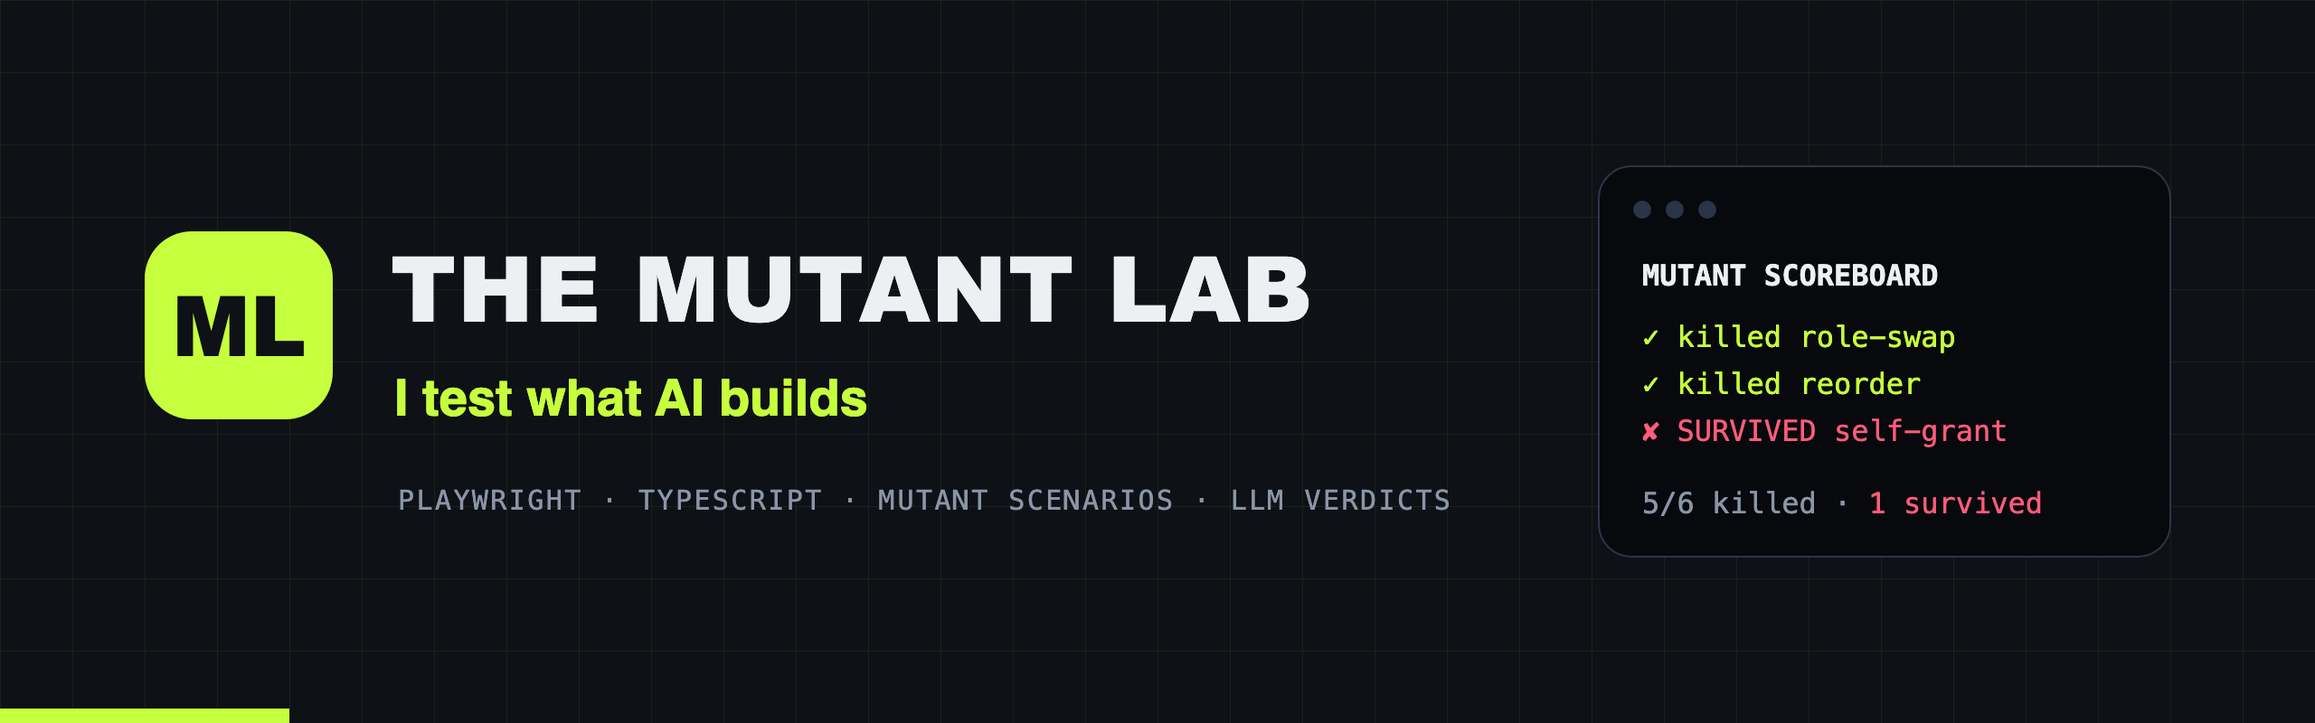
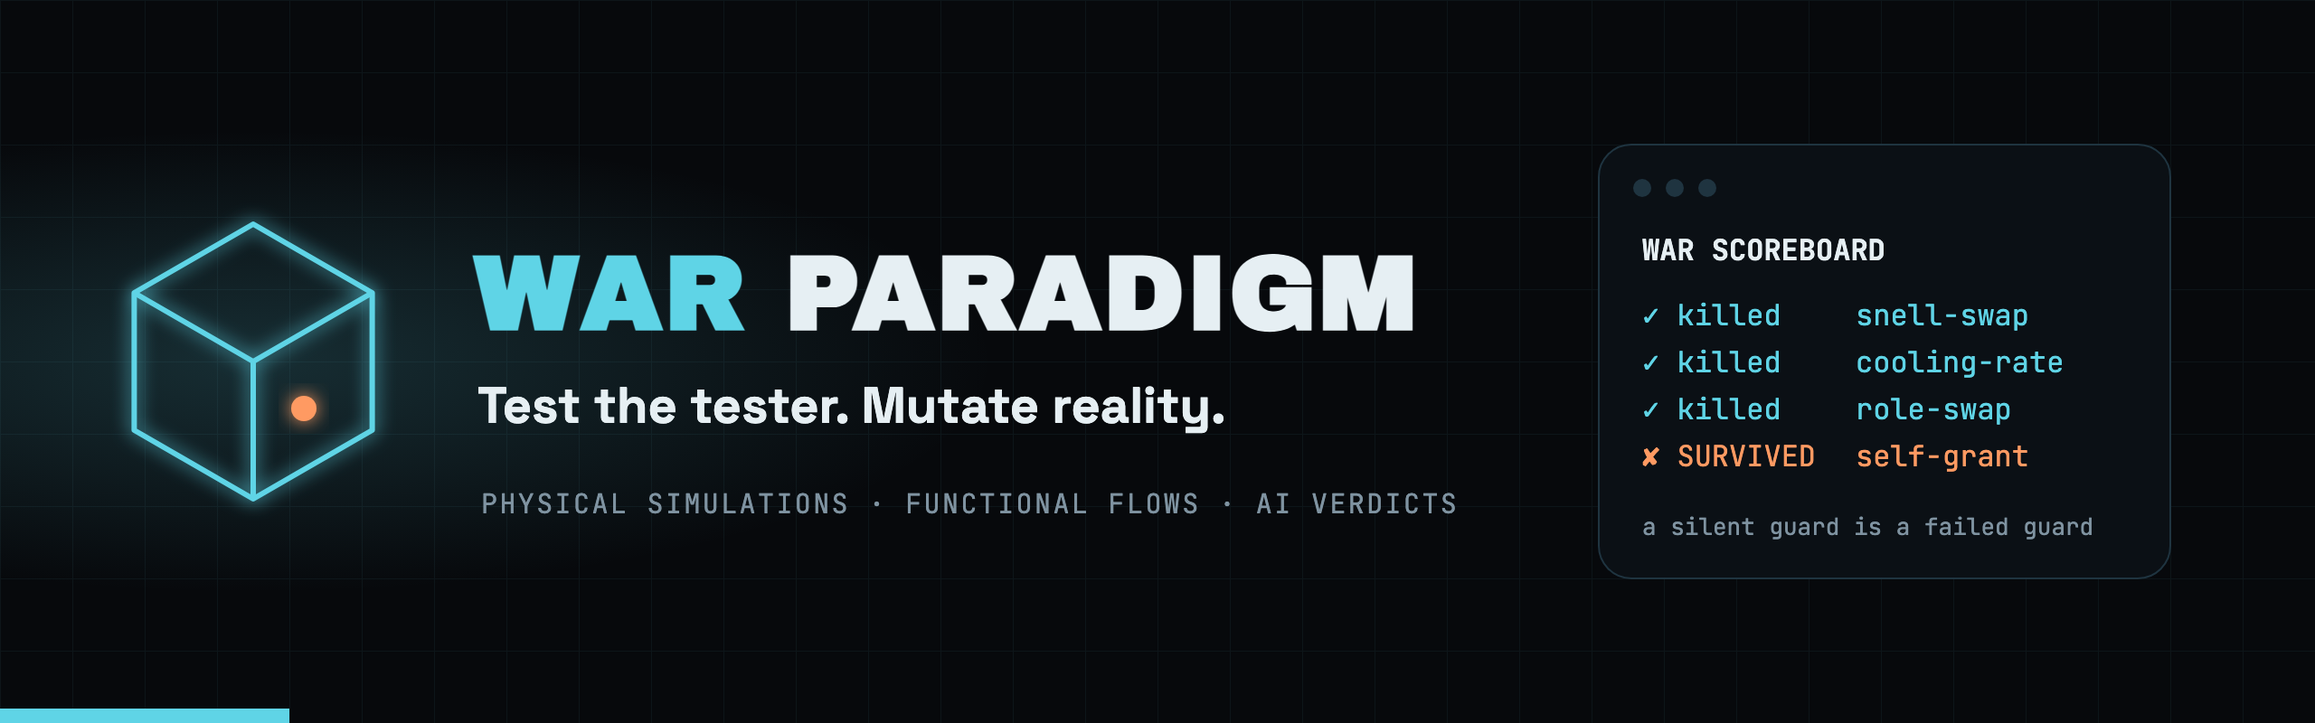
WAR Paradigm: rename The Mutant Lab after the paradigm
Test the tester: break reality on purpose and check whether the guard notices.
README (EN + ES) now frames the lab as two tracks of one paradigm:
physical simulations (criguex/scientific-qa-evidence) and functionality
(experiments 01-03 here), with the four steps generate, mutate, audit, validate.
New banner, package name and per-experiment pointers to the paradigm.

Claude-Session: https://claude.ai/code/session_01XG5yu38mgTTH3NKwecuy75

diff --git a/README.md b/README.md
@@ -1,50 +1,84 @@
 <p align="center">
-  <img src="assets/banner.png" alt="THE MUTANT LAB · I test what AI builds" width="100%">
+  <img src="assets/banner.png" alt="WAR Paradigm · Test the tester. Mutate reality." width="100%">
 </p>
 
 <p align="center">
-  <a href="https://github.com/criguex/mutant-lab/actions/workflows/ci.yml"><img src="https://github.com/criguex/mutant-lab/actions/workflows/ci.yml/badge.svg" alt="CI"></a>
+  <a href="https://github.com/criguex/war-paradigm/actions/workflows/ci.yml"><img src="https://github.com/criguex/war-paradigm/actions/workflows/ci.yml/badge.svg" alt="CI"></a>
   <img src="https://img.shields.io/badge/Playwright-1.63-2EAD33?logo=playwright&logoColor=white" alt="Playwright 1.63">
   <img src="https://img.shields.io/badge/TypeScript-5.9-3178C6?logo=typescript&logoColor=white" alt="TypeScript">
-  <img src="https://img.shields.io/badge/license-MIT-C6FF3D" alt="MIT">
+  <img src="https://img.shields.io/badge/license-MIT-5FD4E6" alt="MIT">
 </p>
 
-# THE MUTANT LAB
+# WAR Paradigm
 
-**I test what AI builds.** One experiment at a time: take something an AI produced (a plan, a test, a feature), break it on purpose, and show what a repeatable verdict looks like.
+**Don't test the software. Test the tester.** · [Leer en español](README.es.md)
 
-Every experiment in this repo is real and runnable. No API keys, no mocks pretending to be results, no green CI hiding a finding.
+Every test suite, oracle, proof checker or AI judge is a guard that is supposed to shout when something is wrong. A guard that never shouts might be excellent, or it might be asleep. WAR Paradigm is how you tell the difference: build a world where you know exactly what is wrong, because you broke it on purpose, and check whether the guard notices.
+
+- Break a law of physics inside a simulation. Does the oracle notice?
+- Break one step of a business flow. Does the suite notice?
+- Disguise a forbidden command. Does the guard rail notice?
+
+If the guard stays quiet, the guard failed. That is the finding.
+
+> Formerly **The Mutant Lab**: same experiments, and now the name says what ties them together. *WAR* comes from Guerra, the author's surname (*guerra* is Spanish for war): a war on bugs, starting with the ones hiding inside the checks. Old links to `criguex/mutant-lab` redirect here.
 
 ```bash
-git clone https://github.com/criguex/mutant-lab.git && cd mutant-lab
+git clone https://github.com/criguex/war-paradigm.git && cd war-paradigm
 npm ci && npx playwright install --with-deps chromium
 npm test
 ```
 
-## Experiments
+## The paradigm in four steps
 
-| # | Experiment | The question it answers | Status | Run it |
-|---|---|---|---|---|
-| 01 | [**AI verdict**](experiments/01-ai-verdict) | AI output changes every run. Can the verdict stay the same? | ✅ runnable | `npm run demo:01` |
-| 02 | [**Mutant scenarios**](experiments/02-mutants) | Your suite is green. Would it notice if the app broke? | ✅ runnable · 1 known finding | `npm run demo:02` |
-| 03 | [**Second brain**](experiments/03-second-brain) | AI without context writes generic tests. What fixes it? | ✅ runnable | `npm run demo:03` |
-| 04 | next specimen | | 🧪 planned | |
+| Step | What happens | Physical simulation | Functional flow |
+|---|---|---|---|
+| **1 · Generate** | Build the base reality and confirm the guard accepts it | Snell refraction with the real indices | The golden flow: login → create → approve → publish |
+| **2 · Mutate** | Change exactly one rule, on purpose | Swap the two refractive indices | A viewer tries to approve |
+| **3 · Audit** | Run the broken world past the guard | An independent oracle with a frozen 10⁻⁶ tolerance | Playwright checks against the API |
+| **4 · Validate** | Read the verdict | **KILLED**: the oracle rejects it | **KILLED**: the app answers 403 |
 
-### 01 · AI verdict
+Three verdicts, always reported, never hidden:
 
-Two questions, two oracles. *Does it run as specified?* is deterministic: schema, roles, status codes, asserted in code. *Is what it produced good?* is a score against explicit acceptance criteria: `must` criteria block, `should` criteria add to a weighted score, every criterion with evidence computed by code. Then the same input runs three times; if the verdict flips, that is a finding. Ships with recorded runs (one set pinned and stable, one set unpinned that flips) and an adapter to plug in any real agent through an environment variable.
+- **PASS**: the unmutated baseline behaves as specified, so the guard is not crying wolf.
+- **KILLED**: the guard caught the mutation. The check has teeth.
+- **SURVIVED**: the guard missed it. Either a real bug or a blind spot in the checks. It stays visible, printed in red and tracked, until someone fixes it.
 
-### 02 · Mutant scenarios
+## Two tracks, one paradigm
 
-A tiny web app with a golden flow (login → create → approve → publish) and a green Playwright suite. Mutants are data: one line each, one change to the flow, the app must reject it. Five get killed. One survives and reveals a real authorization bug in the demo app: a user can grant themself a higher role. CI stays green **and** honest: the survivor is declared as a known finding, printed in red on every run, and the day the bug is fixed the test forces you to remove the flag. A larger, real-world example of the same engine: [criguex/civica-playwright-challenge](https://github.com/criguex/civica-playwright-challenge).
+### Track 1 · Physical simulations → [criguex/scientific-qa-evidence](https://github.com/criguex/scientific-qa-evidence)
 
-### 03 · Second brain
+Nine synthetic numerical models: RC circuit, Newton cooling, second-order chemical kinetics, Beer–Lambert attenuation, logistic response, Snell refraction, thin lens, acoustic interface and Fechner response. Each one has an independent oracle that shares no solver code with the implementation, and a contract whose tolerance was frozen before any run. Then the physics gets broken on purpose: a doubled time constant, a halved cooling rate, swapped refractive indices.
 
-An Obsidian vault template for AI-assisted QA: a `READ FIRST` map, golden rules, five predictable folders, notes that answer one question each and link to the rest. Plus the part a prompt cannot do: a Claude Code `PreToolUse` hook that blocks any `git push` to `main` with exit 2. The hook has its own test suite (28 cases, including chained commands and the bare `git push` on `main`) and a link checker keeps the vault consistent.
+- **84 paired variants**, run on macOS arm64 and on Linux x86_64 with identical classifications.
+- **27 PASS** · **54 KILLED** (51 distinct behaviors; two acoustic mutants produce identical outputs) · **3 SURVIVED**: the deliberately tiny RC mutation, kept visible on purpose.
+
+The same repository applies the idea to formal proofs: two independent proof checkers, the Lean kernel and nanoda, must reject a deliberately wrong proof, and both do. That track is a QA reproduction of OpenAI's published Lean proofs for Navier–Stokes and Euler. It proves nothing new and claims no Millennium Prize result; its limitations are listed in its README.
+
+### Track 2 · Functionality → this repository
+
+| # | Experiment | The guard under test | The question it answers | Status | Run it |
+|---|---|---|---|---|---|
+| 01 | [**AI verdict**](experiments/01-ai-verdict) | The judge: oracles and a scorer for AI output | AI output changes every run. Can the verdict stay the same? | ✅ runnable | `npm run demo:01` |
+| 02 | [**Mutant scenarios**](experiments/02-mutants) | The suite: a green Playwright golden flow | Your suite is green. Would it notice if the app broke? | ✅ runnable · 1 known finding | `npm run demo:02` |
+| 03 | [**Second brain**](experiments/03-second-brain) | The guard rail: a Claude Code hook | AI without context writes generic tests. What fixes it? | ✅ runnable | `npm run demo:03` |
+| 04 | next specimen | | | 🧪 planned | |
+
+#### 01 · AI verdict
+
+Two questions, two oracles. *Does it run as specified?* is deterministic: schema, roles, status codes, asserted in code. *Is what it produced good?* is a score against explicit acceptance criteria: `must` criteria block, `should` criteria add to a weighted score, every criterion with evidence computed by code. Then the same input runs three times; if the verdict flips, the judge is the one that failed. Ships with recorded runs (one set pinned and stable, one set unpinned that flips) and an adapter to plug in any real agent through an environment variable.
+
+#### 02 · Mutant scenarios
+
+A tiny web app with a golden flow (login → create → approve → publish) and a green Playwright suite. Mutants are data: one line each, one change to the flow, and the app must reject it. Five get killed. One survives and reveals a real authorization bug in the demo app: a user can grant themself a higher role. CI stays green **and** honest: the survivor is declared as a known finding, printed in red on every run, and the day the bug is fixed the test forces you to remove the flag. A larger, real-world example of the same engine: [criguex/civica-playwright-challenge](https://github.com/criguex/civica-playwright-challenge).
+
+#### 03 · Second brain
+
+An Obsidian vault template for AI-assisted QA: a `READ FIRST` map, golden rules, five predictable folders, notes that answer one question each and link to the rest. Plus the part a prompt cannot do: a Claude Code `PreToolUse` hook that blocks any `git push` to `main` with exit 2. The guard is tested the WAR way: 28 cases, including chained commands and the bare `git push` on `main`, try to sneak past it. A link checker keeps the vault consistent.
 
 ## Why
 
-AI now writes documents, plans, tests and code faster than anyone can read them. The bottleneck moved from *producing* to *deciding*: is this good enough to ship? A decision that depends on how the output feels is not a decision, it is a mood. This lab is about turning that mood into something measurable and repeatable: assertions where the answer is binary, scores against agreed criteria where it is not, mutants to prove the checks have teeth, and context so the AI stops guessing.
+AI now writes documents, plans, tests and code faster than anyone can read them, and more and more often it also writes the checks. When the code and its tests come from the same place, a green run proves less than it looks. The bottleneck moved from *producing* to *deciding*: is this good enough to ship? A decision that depends on how the output feels is not a decision, it is a mood. WAR Paradigm turns that mood into evidence about the checks themselves: assertions where the answer is binary, scores against agreed criteria where it is not, and mutants, physical or functional, to prove the checks have teeth.
 
 ## How the lab works
 
@@ -54,7 +88,7 @@ AI now writes documents, plans, tests and code faster than anyone can read them.
 - **Small on purpose.** Each experiment is one folder you can read in a sitting and copy into your own project.
 
 ```
-mutant-lab/
+war-paradigm/
 ├── experiments/
 │   ├── 01-ai-verdict/      Playwright test runner, TypeScript, recorded runs, scorer, stability check
 │   ├── 02-mutants/         node web app + Playwright golden flow + mutants as data + scoreboard reporter

diff --git a/README.es.md b/README.es.md
@@ -1,0 +1,107 @@
+<p align="center">
+  <img src="assets/banner.png" alt="WAR Paradigm · Prueba al que prueba. Muta la realidad." width="100%">
+</p>
+
+<p align="center">
+  <a href="https://github.com/criguex/war-paradigm/actions/workflows/ci.yml"><img src="https://github.com/criguex/war-paradigm/actions/workflows/ci.yml/badge.svg" alt="CI"></a>
+  <img src="https://img.shields.io/badge/Playwright-1.63-2EAD33?logo=playwright&logoColor=white" alt="Playwright 1.63">
+  <img src="https://img.shields.io/badge/TypeScript-5.9-3178C6?logo=typescript&logoColor=white" alt="TypeScript">
+  <img src="https://img.shields.io/badge/licencia-MIT-5FD4E6" alt="MIT">
+</p>
+
+# WAR Paradigm
+
+**No probamos el software. Probamos al que prueba.** · [Read in English](README.md)
+
+Toda suite de pruebas, oráculo, verificador de pruebas formales o juez de IA es un guardia que debería gritar cuando algo está mal. Un guardia que nunca grita puede ser excelente, o puede estar dormido. WAR Paradigm es la forma de saberlo: construir un mundo donde sabes exactamente qué está mal, porque lo rompiste a propósito, y ver si el guardia lo nota.
+
+- Rompe una ley física dentro de una simulación. ¿El oráculo lo nota?
+- Rompe un paso de un flujo de negocio. ¿La suite lo nota?
+- Disfraza un comando prohibido. ¿La barrera lo nota?
+
+Si el guardia se queda callado, el guardia falló. Ese es el hallazgo.
+
+> Antes se llamaba **The Mutant Lab**: son los mismos experimentos, y ahora el nombre dice qué los une. *WAR* viene de Guerra, el apellido del autor: una guerra contra los bugs, empezando por los que se esconden dentro de las propias pruebas. Los enlaces viejos a `criguex/mutant-lab` redirigen aquí.
+
+```bash
+git clone https://github.com/criguex/war-paradigm.git && cd war-paradigm
+npm ci && npx playwright install --with-deps chromium
+npm test
+```
+
+## El paradigma en cuatro pasos
+
+| Paso | Qué pasa | Simulación física | Flujo funcional |
+|---|---|---|---|
+| **1 · Generar** | Construir la realidad base y confirmar que el guardia la acepta | Refracción de Snell con los índices reales | El flujo dorado: login → crear → aprobar → publicar |
+| **2 · Mutar** | Cambiar exactamente una regla, a propósito | Intercambiar los dos índices de refracción | Un usuario de solo lectura intenta aprobar |
+| **3 · Auditar** | Pasar el mundo roto frente al guardia | Un oráculo independiente con tolerancia congelada de 10⁻⁶ | Verificaciones de Playwright contra la API |
+| **4 · Validar** | Leer el veredicto | **KILLED**: el oráculo lo rechaza | **KILLED**: la app responde 403 |
+
+Tres veredictos, siempre reportados y nunca escondidos:
+
+- **PASS**: la línea base sin mutar se comporta como dice la especificación, así que el guardia no está dando falsas alarmas.
+- **KILLED**: el guardia atrapó la mutación. La prueba tiene dientes.
+- **SURVIVED**: el guardia no la vio. Es un bug real o un punto ciego en las pruebas. Queda visible, impreso en rojo y en seguimiento, hasta que alguien lo arregle.
+
+## Dos pistas, un paradigma
+
+### Pista 1 · Simulaciones físicas → [criguex/scientific-qa-evidence](https://github.com/criguex/scientific-qa-evidence)
+
+Nueve modelos numéricos sintéticos: circuito RC, enfriamiento de Newton, cinética química de segundo orden, atenuación de Beer–Lambert, respuesta logística, refracción de Snell, lente delgada, interfaz acústica y respuesta de Fechner. Cada uno tiene un oráculo independiente que no comparte código con la implementación, y un contrato cuya tolerancia se congeló antes de cualquier corrida. Después se rompe la física a propósito: una constante de tiempo duplicada, una tasa de enfriamiento a la mitad, índices de refracción intercambiados.
+
+- **84 variantes pareadas**, corridas en macOS arm64 y en Linux x86_64 con clasificaciones idénticas.
+- **27 PASS** · **54 KILLED** (51 comportamientos distintos; dos mutantes acústicos dan la misma salida) · **3 SURVIVED**: la mutación RC deliberadamente diminuta, que se dejó visible a propósito.
+
+El mismo repositorio aplica la idea a pruebas formales: dos verificadores independientes, el kernel de Lean y nanoda, deben rechazar una prueba deliberadamente incorrecta, y ambos la rechazan. Esa pista es una reproducción de QA de las pruebas en Lean que publicó OpenAI para Navier–Stokes y Euler. No demuestra nada nuevo ni reclama ningún resultado del Premio del Milenio; sus limitaciones están en su README.
+
+### Pista 2 · Funcionalidades → este repositorio
+
+| # | Experimento | El guardia bajo prueba | La pregunta que responde | Estado | Correrlo |
+|---|---|---|---|---|---|
+| 01 | [**Veredicto de IA**](experiments/01-ai-verdict) | El juez: oráculos y un puntaje para la salida de IA | La salida de la IA cambia en cada corrida. ¿Puede el veredicto mantenerse igual? | ✅ ejecutable | `npm run demo:01` |
+| 02 | [**Escenarios mutantes**](experiments/02-mutants) | La suite: un flujo dorado de Playwright en verde | Tu suite está en verde. ¿Notaría si la app se rompe? | ✅ ejecutable · 1 hallazgo conocido | `npm run demo:02` |
+| 03 | [**Segundo cerebro**](experiments/03-second-brain) | La barrera: un hook de Claude Code | La IA sin contexto escribe pruebas genéricas. ¿Qué lo arregla? | ✅ ejecutable | `npm run demo:03` |
+| 04 | próximo espécimen | | | 🧪 planeado | |
+
+#### 01 · Veredicto de IA
+
+Dos preguntas, dos oráculos. *¿Funciona como se especificó?* es determinista: esquema, roles y códigos de estado, verificados en código. *¿Lo que produjo es bueno?* es un puntaje contra criterios de aceptación explícitos: los criterios `must` bloquean, los `should` suman a un puntaje ponderado, y cada criterio lleva evidencia calculada por código. Luego la misma entrada corre tres veces; si el veredicto cambia, el que falló es el juez. Incluye corridas grabadas (un set fijado y estable, otro sin fijar que cambia) y un adaptador para conectar un agente real con una variable de entorno.
+
+#### 02 · Escenarios mutantes
+
+Una app web pequeña con un flujo dorado (login → crear → aprobar → publicar) y una suite de Playwright en verde. Los mutantes son datos: una línea cada uno, un cambio en el flujo, y la app debe rechazarlo. Cinco mueren. Uno sobrevive y revela un bug real de autorización en la app de demostración: un usuario puede darse a sí mismo un rol más alto. El CI queda en verde **y** honesto: el sobreviviente se declara como hallazgo conocido, se imprime en rojo en cada corrida, y el día que se arregle el bug la prueba obliga a quitar la marca. Un ejemplo más grande y real del mismo motor: [criguex/civica-playwright-challenge](https://github.com/criguex/civica-playwright-challenge).
+
+#### 03 · Segundo cerebro
+
+Una plantilla de vault de Obsidian para QA asistido por IA: un mapa `READ FIRST`, reglas de oro, cinco carpetas predecibles y notas que responden una pregunta cada una y enlazan al resto. Y la parte que un prompt no puede hacer: un hook `PreToolUse` de Claude Code que bloquea cualquier `git push` a `main` con exit 2. La barrera se prueba al estilo WAR: 28 casos, incluidos comandos encadenados y el `git push` a secas sobre `main`, intentan colarse. Un verificador de enlaces mantiene el vault consistente.
+
+## Por qué
+
+La IA ya escribe documentos, planes, pruebas y código más rápido de lo que alguien alcanza a leer, y cada vez más también escribe las pruebas. Cuando el código y sus pruebas salen del mismo lugar, una corrida en verde demuestra menos de lo que parece. El cuello de botella pasó de *producir* a *decidir*: ¿esto está listo para salir? Una decisión que depende de cómo se siente el resultado no es una decisión, es un estado de ánimo. WAR Paradigm convierte ese estado de ánimo en evidencia sobre las pruebas mismas: aserciones donde la respuesta es binaria, puntajes contra criterios acordados donde no lo es, y mutantes, físicos o funcionales, para demostrar que las pruebas tienen dientes.
+
+## Cómo funciona el laboratorio
+
+- **Real, ejecutable y sin conexión.** Cada experimento corre con `npm test`, sin llaves ni red. Donde podría conectarse un modelo real, es opcional y explícito.
+- **Grabado, no fingido.** Los fixtures son artefactos grabados y deterministas para que el veredicto se pueda reproducir; el código que los califica es el experimento.
+- **Los hallazgos nunca se esconden.** Un mutante sobreviviente conocido se marca como fallo esperado y se imprime en rojo; no se borra ni se salta.
+- **Pequeño a propósito.** Cada experimento es una carpeta que se lee de una sentada y se puede copiar a tu propio proyecto.
+
+```
+war-paradigm/
+├── experiments/
+│   ├── 01-ai-verdict/      runner de Playwright, TypeScript, corridas grabadas, puntaje, chequeo de estabilidad
+│   ├── 02-mutants/         app web en node + flujo dorado en Playwright + mutantes como datos + reporter de marcador
+│   └── 03-second-brain/    plantilla de vault de Obsidian + hook de Claude Code + suite de node:test
+├── assets/                 marca
+└── .github/workflows/      un job corre todos los experimentos
+```
+
+Los comandos de cada experimento están en el README de su carpeta. Atajos en la raíz: `npm run test:01`, `test:02`, `test:03`, `demo:01`, `demo:02`, `demo:03`, `typecheck`.
+
+## Autor
+
+**Cristian Guerra** · Senior SDET / AI-QA · Medellín, Colombia
+[linkedin.com/in/criguex](https://www.linkedin.com/in/criguex) · [github.com/criguex](https://github.com/criguex)
+
+Publicado bajo la [licencia MIT](LICENSE).

diff --git a/experiments/02-mutants/README.md b/experiments/02-mutants/README.md
@@ -1,5 +1,7 @@
 # Experiment #02 · Your suite is green. Would it notice if the app broke?
 
+> Part of [WAR Paradigm](../../README.md) · Track 2, functionality. The guard under test: **the suite (a green Playwright golden flow)**.
+
 **Specimen:** a golden flow with every happy-path test passing. Login → create → approve → publish. All green.
 
 A passing suite proves the happy path works. It says nothing about whether your checks would catch a wrong role, a missing field or a step done out of order. So: take the golden flow, change exactly ONE step, and the app must reject it. If it doesn't, the mutant *survived*, and that is either a bug or a gap in your checks. Either way, a finding.

diff --git a/experiments/03-second-brain/README.md b/experiments/03-second-brain/README.md
@@ -1,5 +1,7 @@
 # Experiment #03 · AI without context writes generic tests.
 
+> Part of [WAR Paradigm](../../README.md) · Track 2, functionality. The guard under test: **the guard rail (a Claude Code hook)**.
+
 **Specimen:** an AI assistant asked to write Playwright tests for a flow it has never seen. Clean code, correct syntax, tests nothing that matters.
 
 The fix wasn't a better prompt. What worked was giving the assistant the same knowledge a senior QA carries in their head, written down in one place it reads before every task, and moving the rules that must never be broken out of the prompt and into a hook.

diff --git a/experiments/01-ai-verdict/README.md b/experiments/01-ai-verdict/README.md
@@ -1,5 +1,7 @@
 # Experiment #01 · AI output changes every run. Your verdict can't.
 
+> Part of [WAR Paradigm](../../README.md) · Track 2, functionality. The guard under test: **the judge (oracles and a scorer for AI output)**.
+
 **Specimen:** an agent that writes a test plan for a user story. Same input, three runs, three different outputs. So, did it pass?
 
 There is no single "expected result" for what an agent produces. This experiment splits the problem in two and makes the verdict repeatable.
